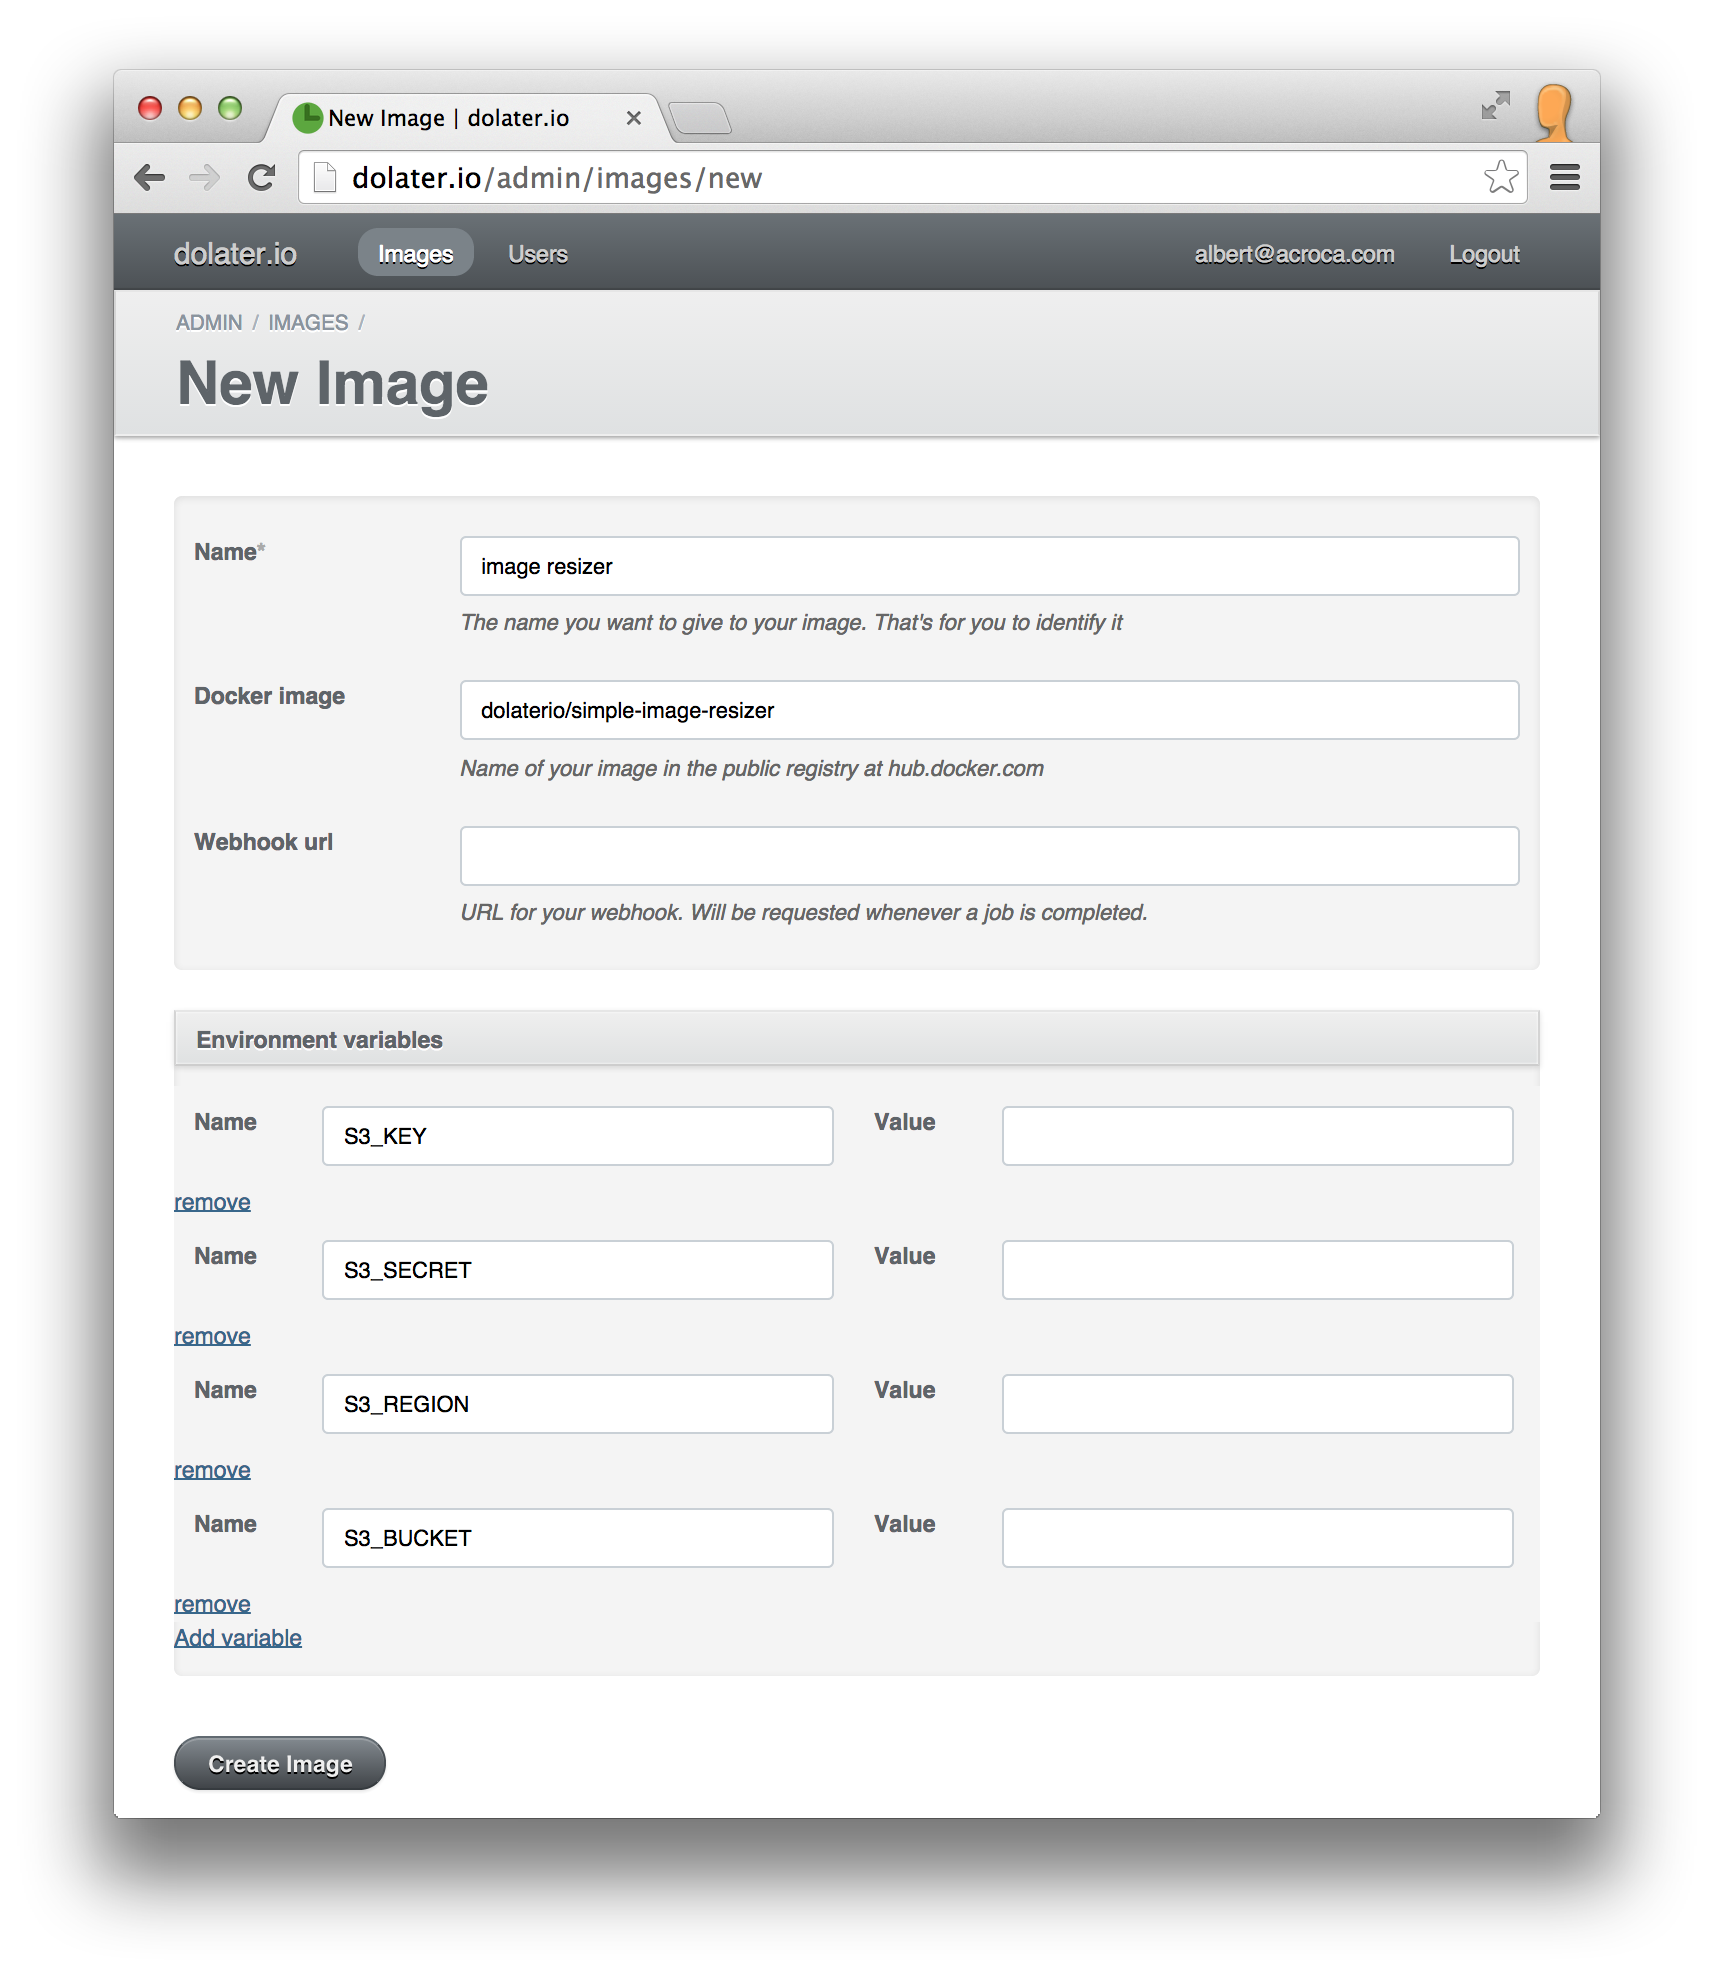
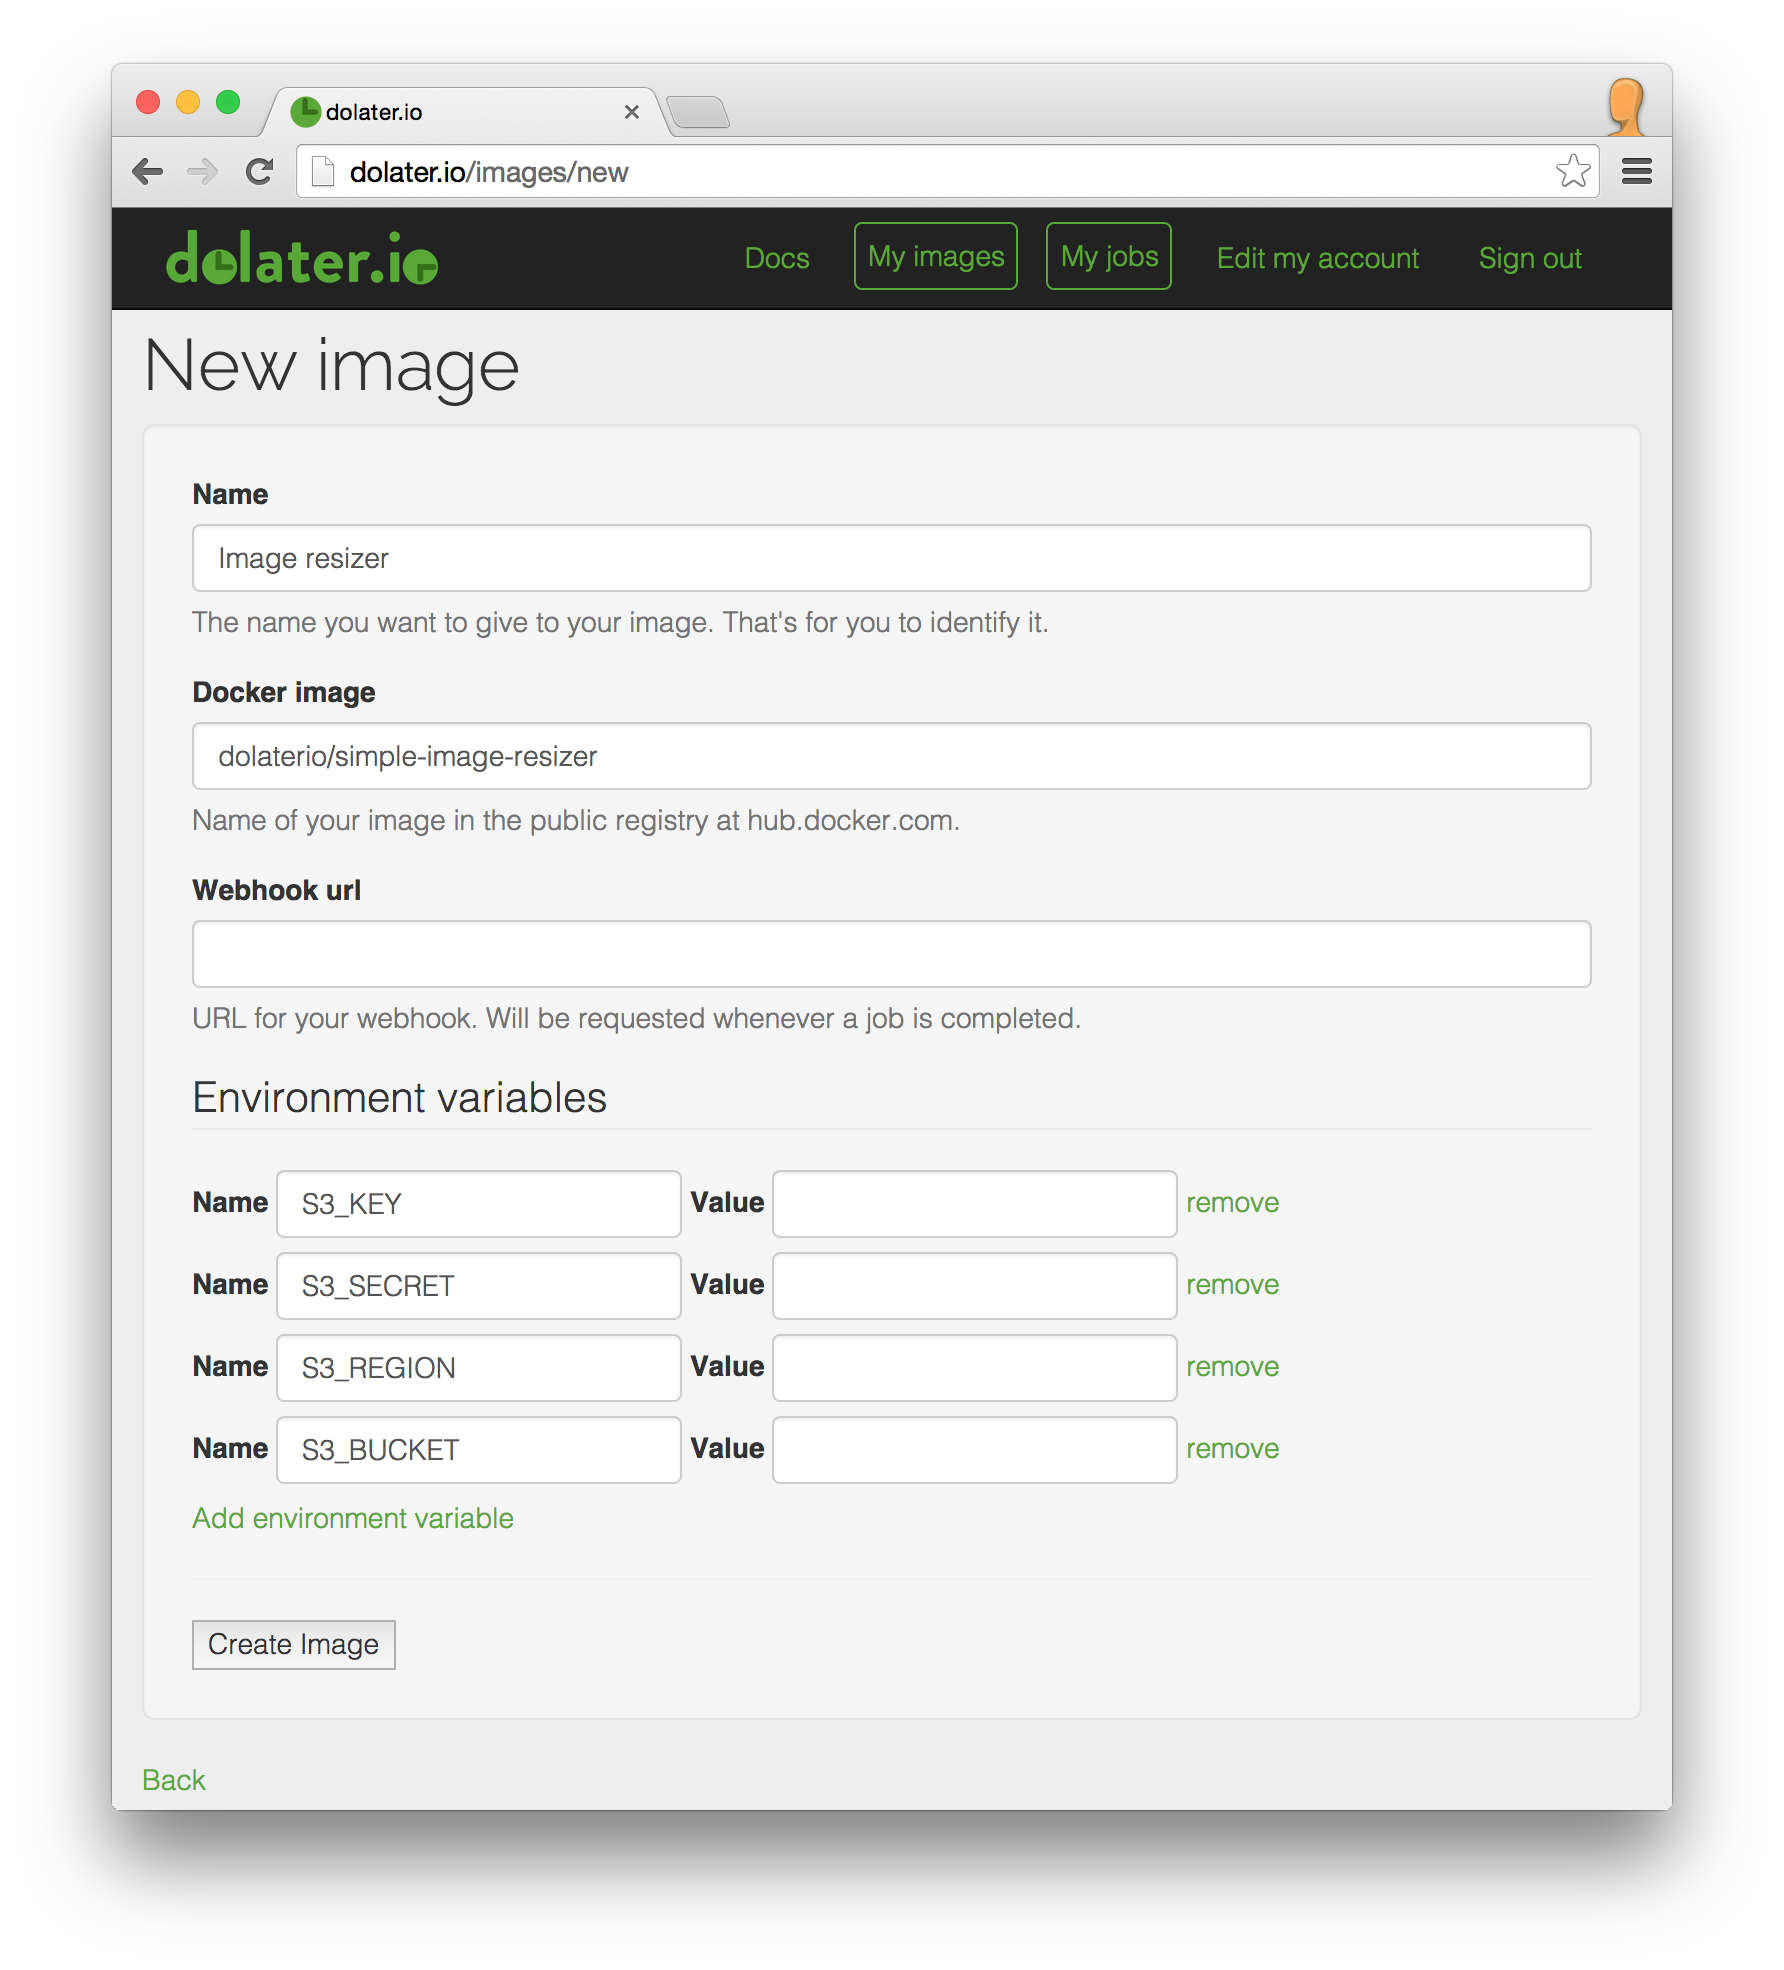
New images

diff --git a/examples/ascii_image_generator.md b/examples/ascii_image_generator.md
@@ -10,7 +10,7 @@ For this example we've created a [docker image that converts an image to ASCII](
 
 ## 2. Create a dolater.io image
 
-Access to your admin interface at [http://dolater.io/admin](http://dolater.io/admin) and click on _New Image_.
+Access [your images on dolater.io](http://dolater.io/images) and click on _New image_.
 
 In the new image form type any name for your image. In the _docker image_ field type `dolaterio/asciify` to use our docker image to convert images to ASCII.
 
@@ -20,40 +20,13 @@ For this example we don't need to set any environment variables, so proceed and 
 
 ## 3. Create jobs for the image
 
+Access [your jobs on dolater.io](http://dolater.io/jobs) and click on _New job_.
 
-There are two ways to create jobs, using the web interface or sending an HTTP request to our API.
-
-### 3.1. Create the job using the web interface
-
-Once the image is created you'll see the following view
-
-![Image created](images/image_created.png)
-
-Click on _Jobs_ to access the list of jobs for this image. It's empty for now. Click on _New job_.
-
-Our asciify app takes the image URL from the _STDIN_, so just paste any image URL to the _STDIN_ field. If you don't have any image url in mind, you can use `http://placekitten.com/g/300/300` like in the example.
+Select the asciify image you created on the previous step. Our asciify app takes the image URL from the _STDIN_, so just paste any image URL to the _STDIN_ field. If you don't have any image url in mind, you can use `http://placekitten.com/g/300/300` like in the example.
 
 ![New job](images/new_job.png)
 
 Click on `Create job` and our servers will pick your job and run it.
-
-### 3.2. Create the job using the API
-
-To use the API you'll need to pass your e-mail and authentication token in the request. You can find it in your profile clicking on your e-mail address in the header of the admin panel.
-
-Once you have your e-mail and authentication token, you'll have to send the http request to create a new job of your image.
-
-```
-curl \
--X POST \
--H "Content-Type: application/json" \
--H "X-User-Token: TOKEN" \
--H "X-User-Email: EMAIL" \
--d '{"job": {"payload": "http://placekitten.com/g/300/300"}}' \
-"http://dolater.io/admin/images/IMAGE_ID/jobs.json"
-```
-
-Replace `TOKEN`, `EMAIL` and `IMAGE_ID` with the right values. You can also try with a different image url.
 
 ### 4. Check the job results
 

diff --git a/examples/image_resizer_s3.md b/examples/image_resizer_s3.md
@@ -20,30 +20,21 @@ You'll need to add the environment variables `S3_KEY` `S3_SECRET` `S3_REGION` `S
 
 ## 3. Create jobs for the image
 
-There are two ways to create jobs, using the web interface or sending an HTTP request to our API.
 
-In prevous examples we've covered the creation using both ways, here we'll just use the API.
+Access [your jobs on dolater.io](http://dolater.io/jobs) and click on _New job_.
 
-To use the API you'll need to pass your e-mail and authentication token in the request. You can find it in your profile clicking on your e-mail address in the header of the admin panel.
-
-Once you have your e-mail and authentication token, you'll have to send the http request to create a new job of your image.
+Our image resizer needs a json object in the STDIN with the job information. Type the following:
 
 ```
-curl \
--X POST \
--H "Content-Type: application/json" \
--H "X-User-Token: TOKEN" \
--H "X-User-Email: EMAIL" \
--d '{"job": {"payload": "{ \
-    \\"width\\":30, \
-    \\"height\\":50, \
-    \\"url\\":\\"http://upload.wikimedia.org/wikipedia/commons/2/22/Turkish_Van_Cat.jpg\\", \
-    \\"destination\\":\\"test.jpg\\" \
-    }"}}' \
-"http://dolater.io/admin/images/IMAGE_ID/jobs.json"
+{
+    "width":30,
+    "height":50,
+    "url":"http://upload.wikimedia.org/wikipedia/commons/2/22/Turkish_Van_Cat.jpg",
+    "destination":"test.jpg"
+}
 ```
 
-Replace `TOKEN`, `EMAIL` and `IMAGE_ID` with the right values. You can also try with a different image url. Also you might want to change the json payload to something else, check the main documentation of the [Simple Image Resizer](https://github.com/dolaterio/simple_image_resizer) for more information about the payload.
+You can also try with a different image url. Check the main documentation of the [Simple Image Resizer](https://github.com/dolaterio/simple_image_resizer) for more information about the payload.
 
 ### 4. Check the job results
 
